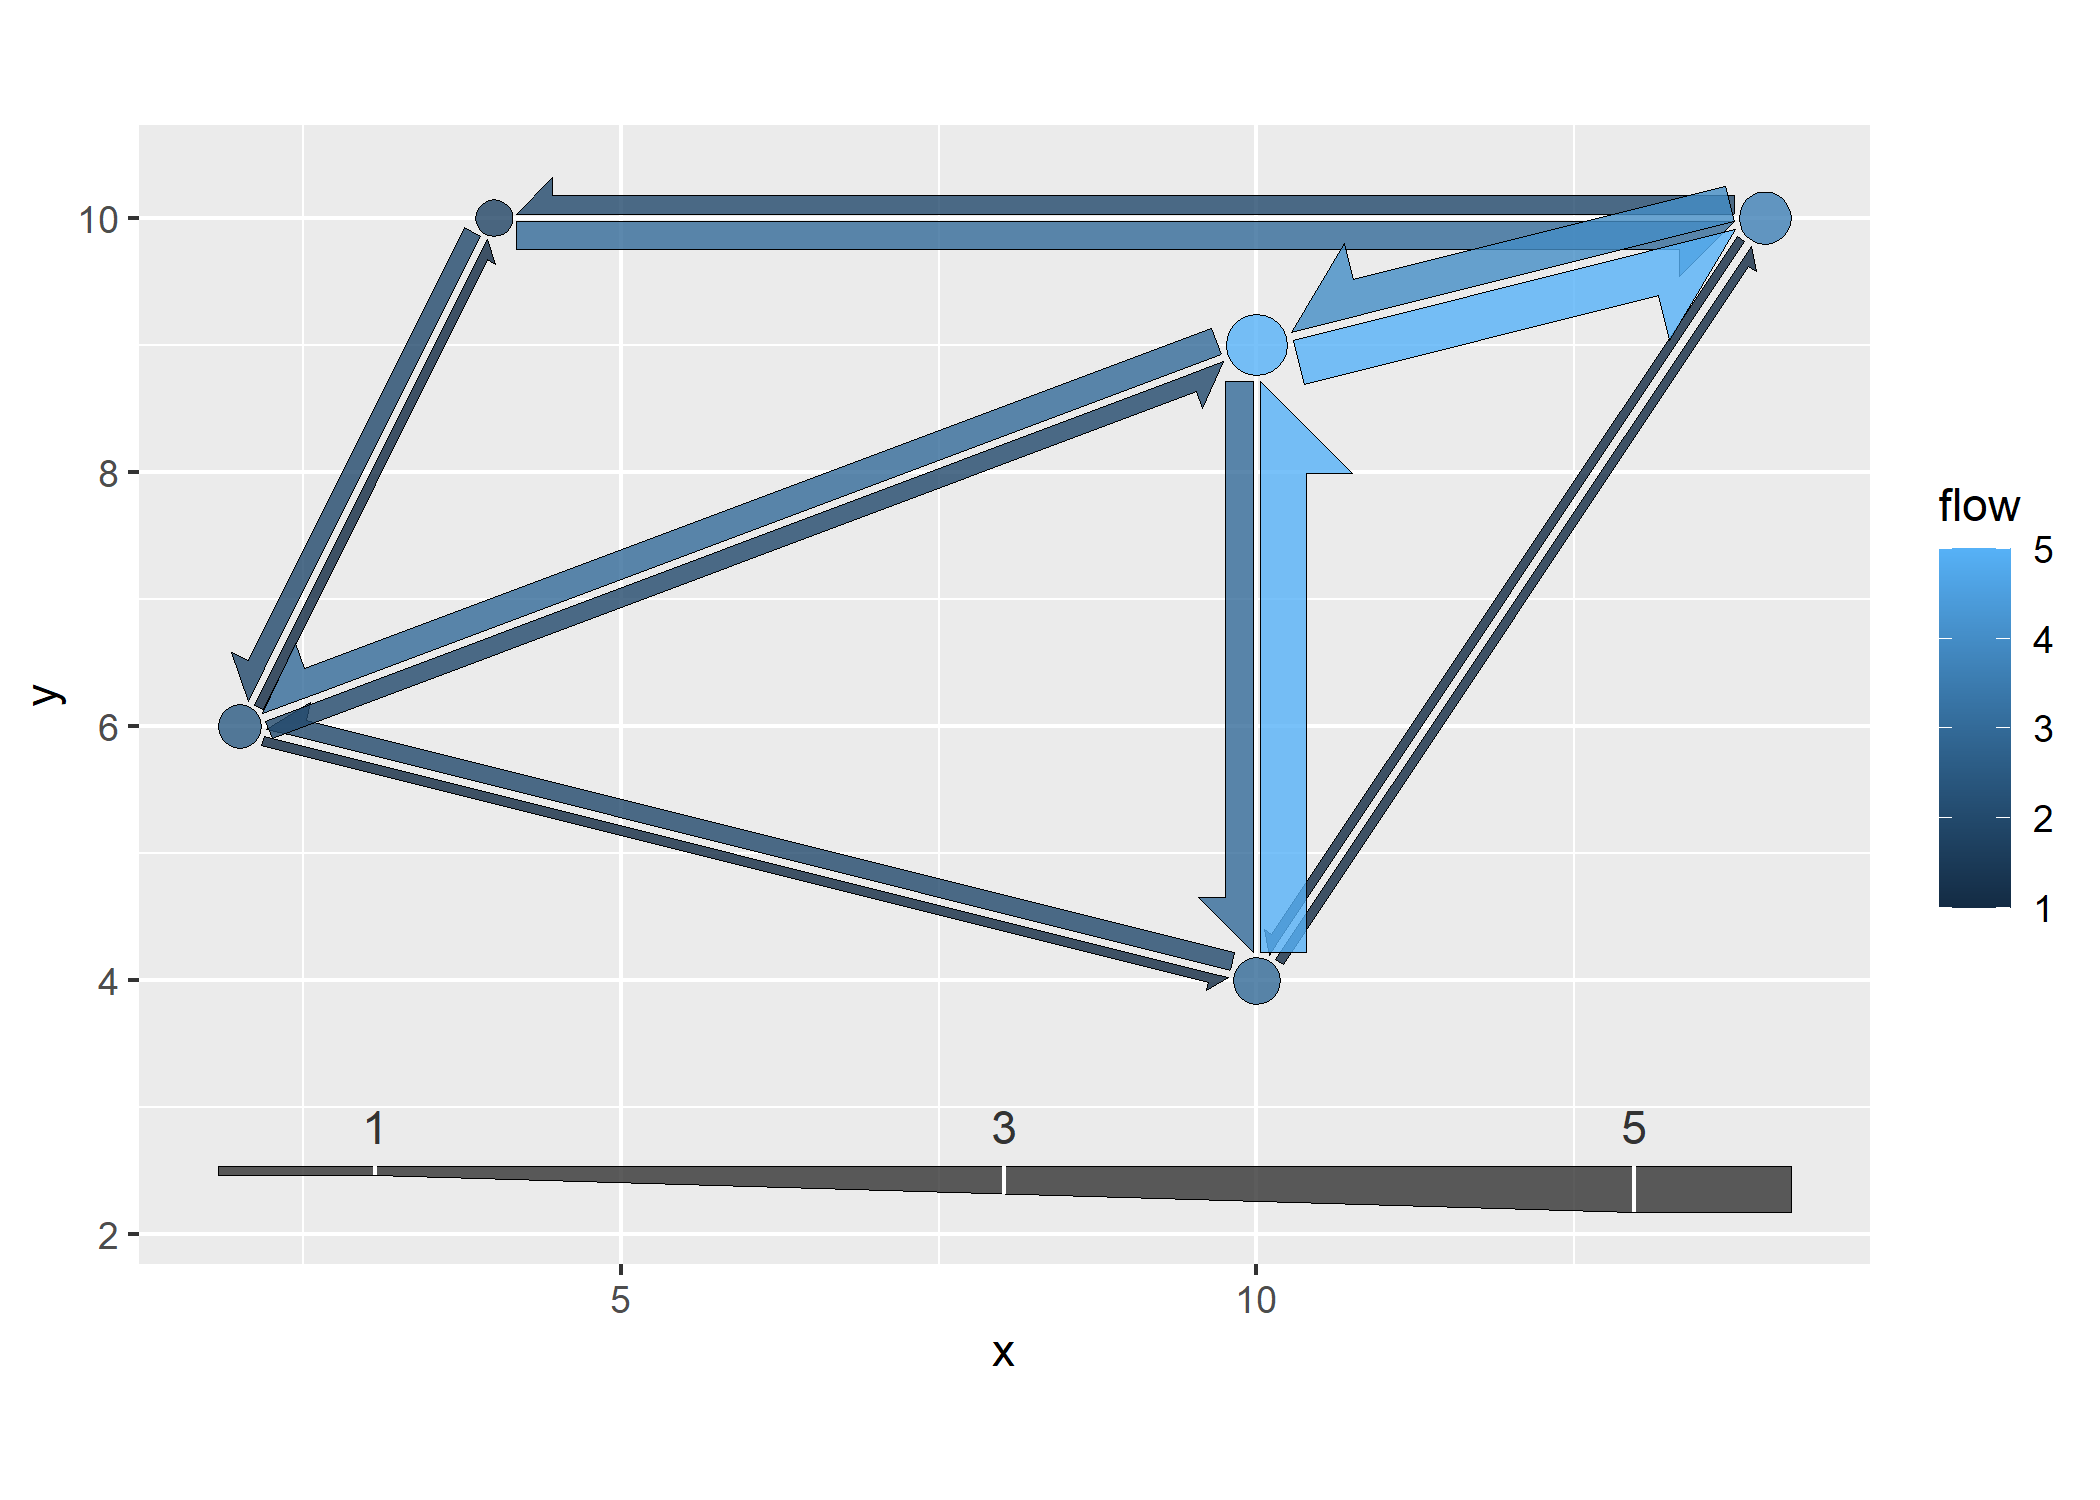
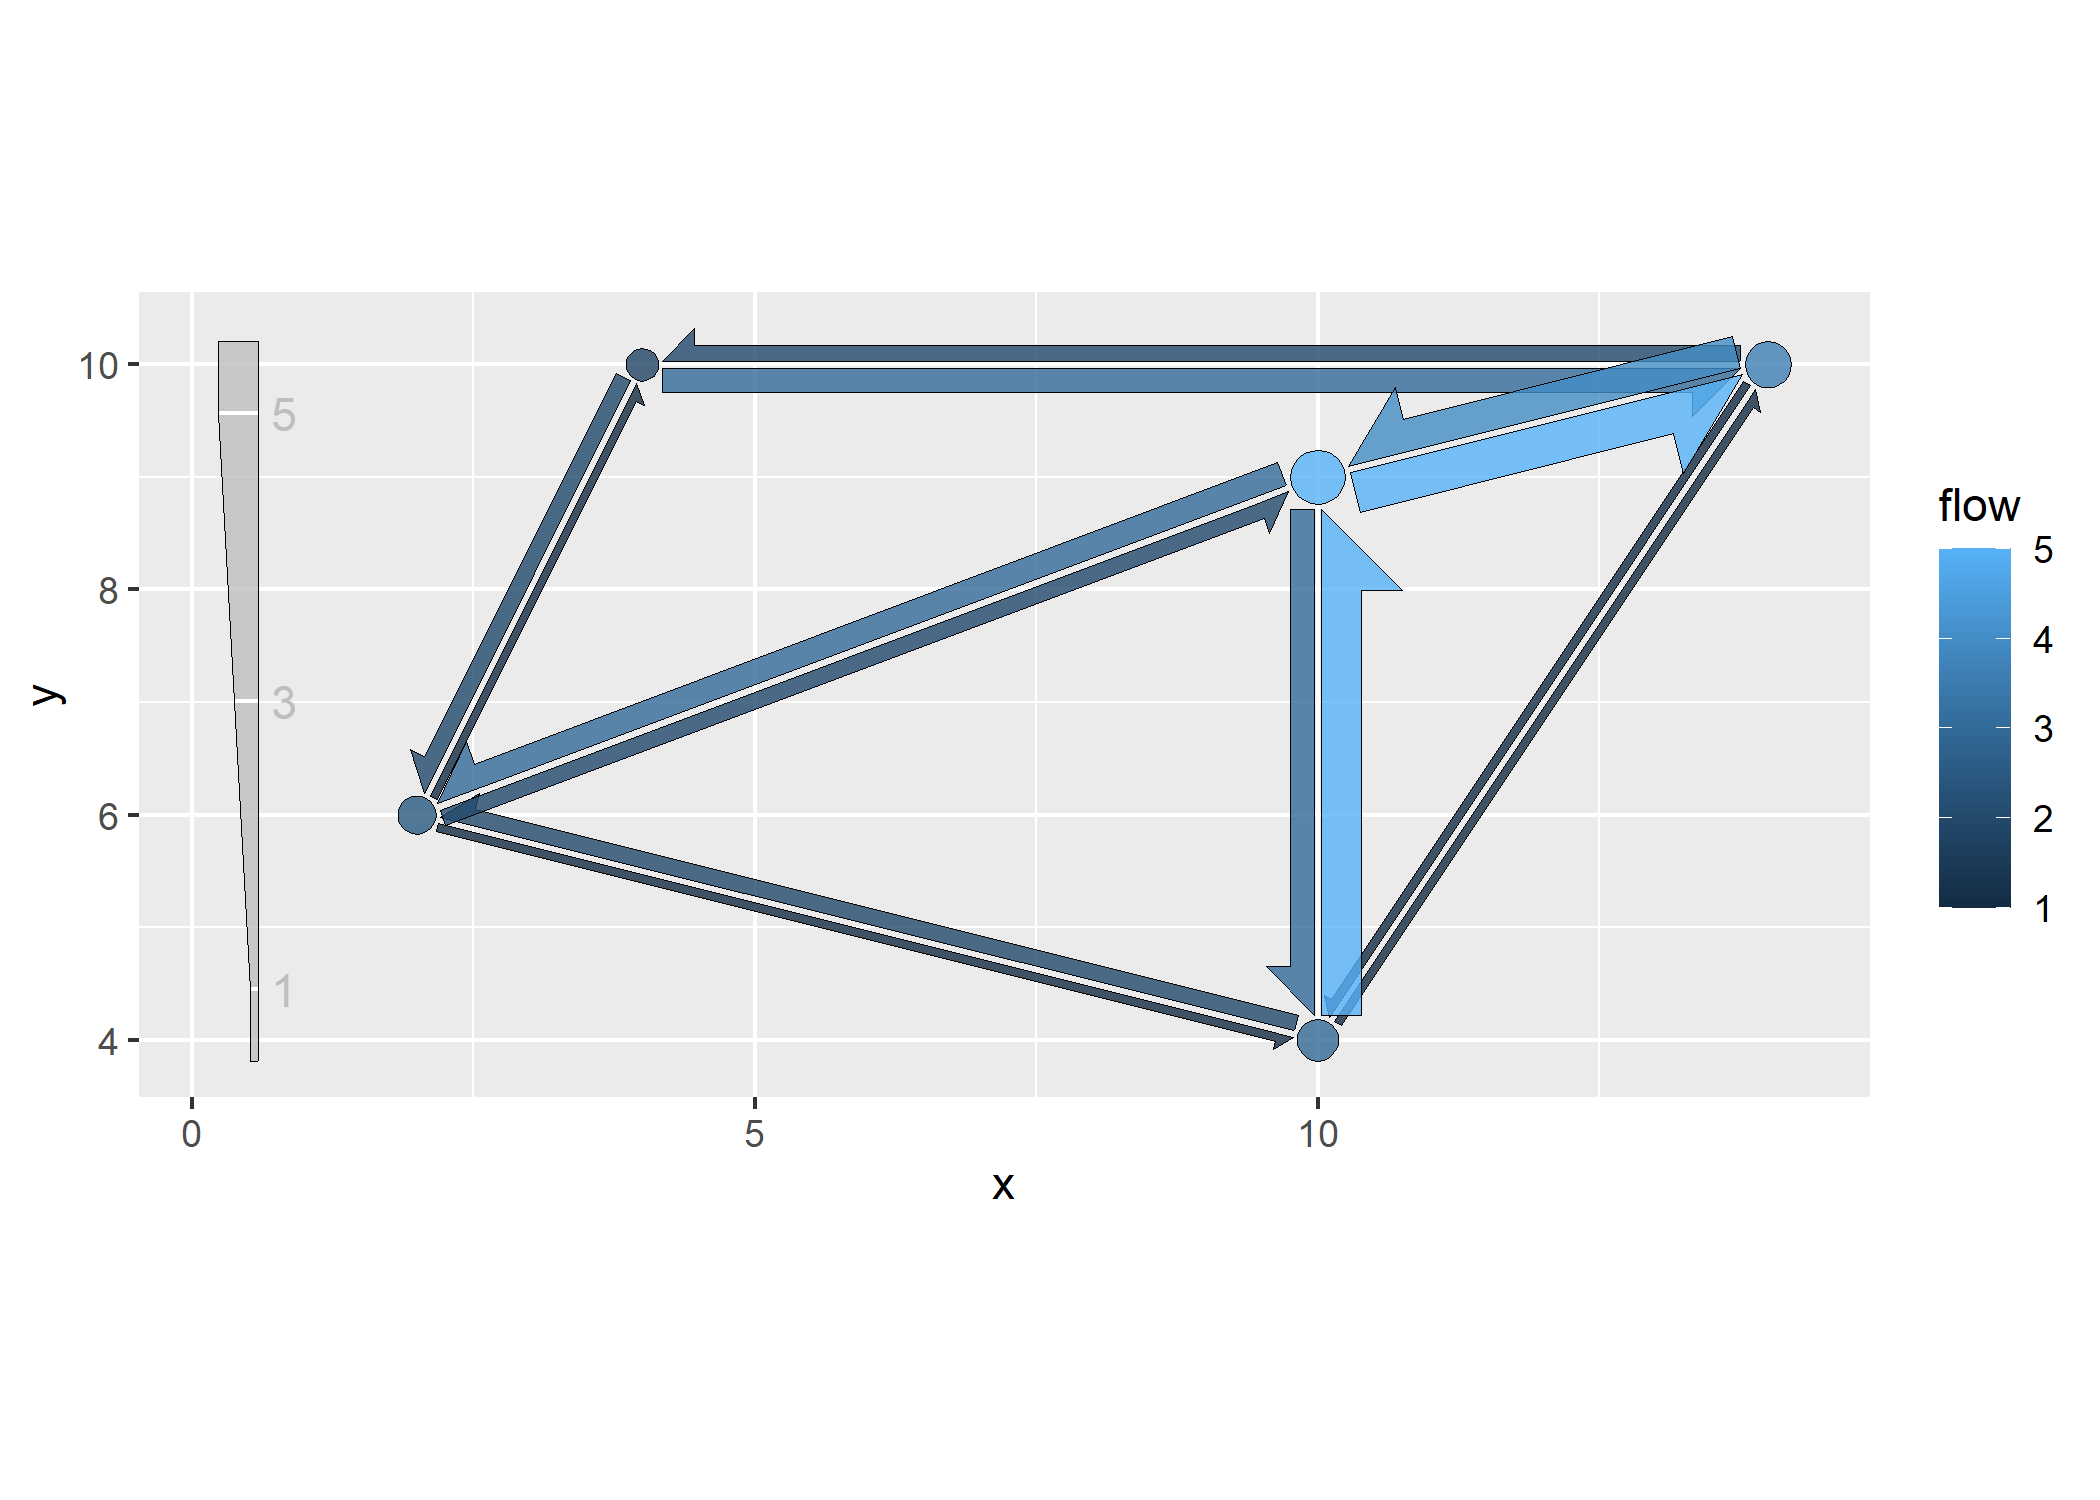
Testing option for gradient legend

diff --git a/README.md b/README.md
@@ -130,15 +130,29 @@ plot |>
 Because the edges are polygons and not linked to an aesthetic, a typical
 ggplot legend cannot be created for their width. As an alternative, a
 legend can be added to the bottom of the main panel by using
-`add_legend` and `legend_col`.
+`add_legend`.
 
 ``` r
+# debug(add_flowmap)
 plot |>
-  add_flowmap(testdata,add_legend = "bottom",legend_col = "gray20")+
+  add_flowmap(testdata,add_legend = "left")+
   coord_equal()
 ```
 
 <img src="man/figures/README-t7-1.png" width="70%" />
+
+Instead of a monotone legend, the legend color can be set to represent
+the flow intensity with `legend_gradient`.
+
+``` r
+# debug(add_flowmap)
+plot |>
+  add_flowmap(testdata, add_legend = "bottom",legend_gradient=T)+
+  coord_equal()+
+  theme(legend.position = "none")
+```
+
+<img src="man/figures/README-t7_5-1.png" width="70%" />
 
 The flowmap can be turned into an interactive plot using the
 [plotly](https://github.com/plotly/plotly.R) library. The names of the
@@ -218,7 +232,7 @@ p2 <-
   add_flowmap(flowdat = data,
               add_legend = "bottom",
               edge_width_factor = 0.7,
-              k_nodes = 10,
+              k_nodes = 10,legend_gradient=T,
               outline_col = NA)+
   theme(panel.grid = element_blank())+
   scale_fill_gradient("Migration",
